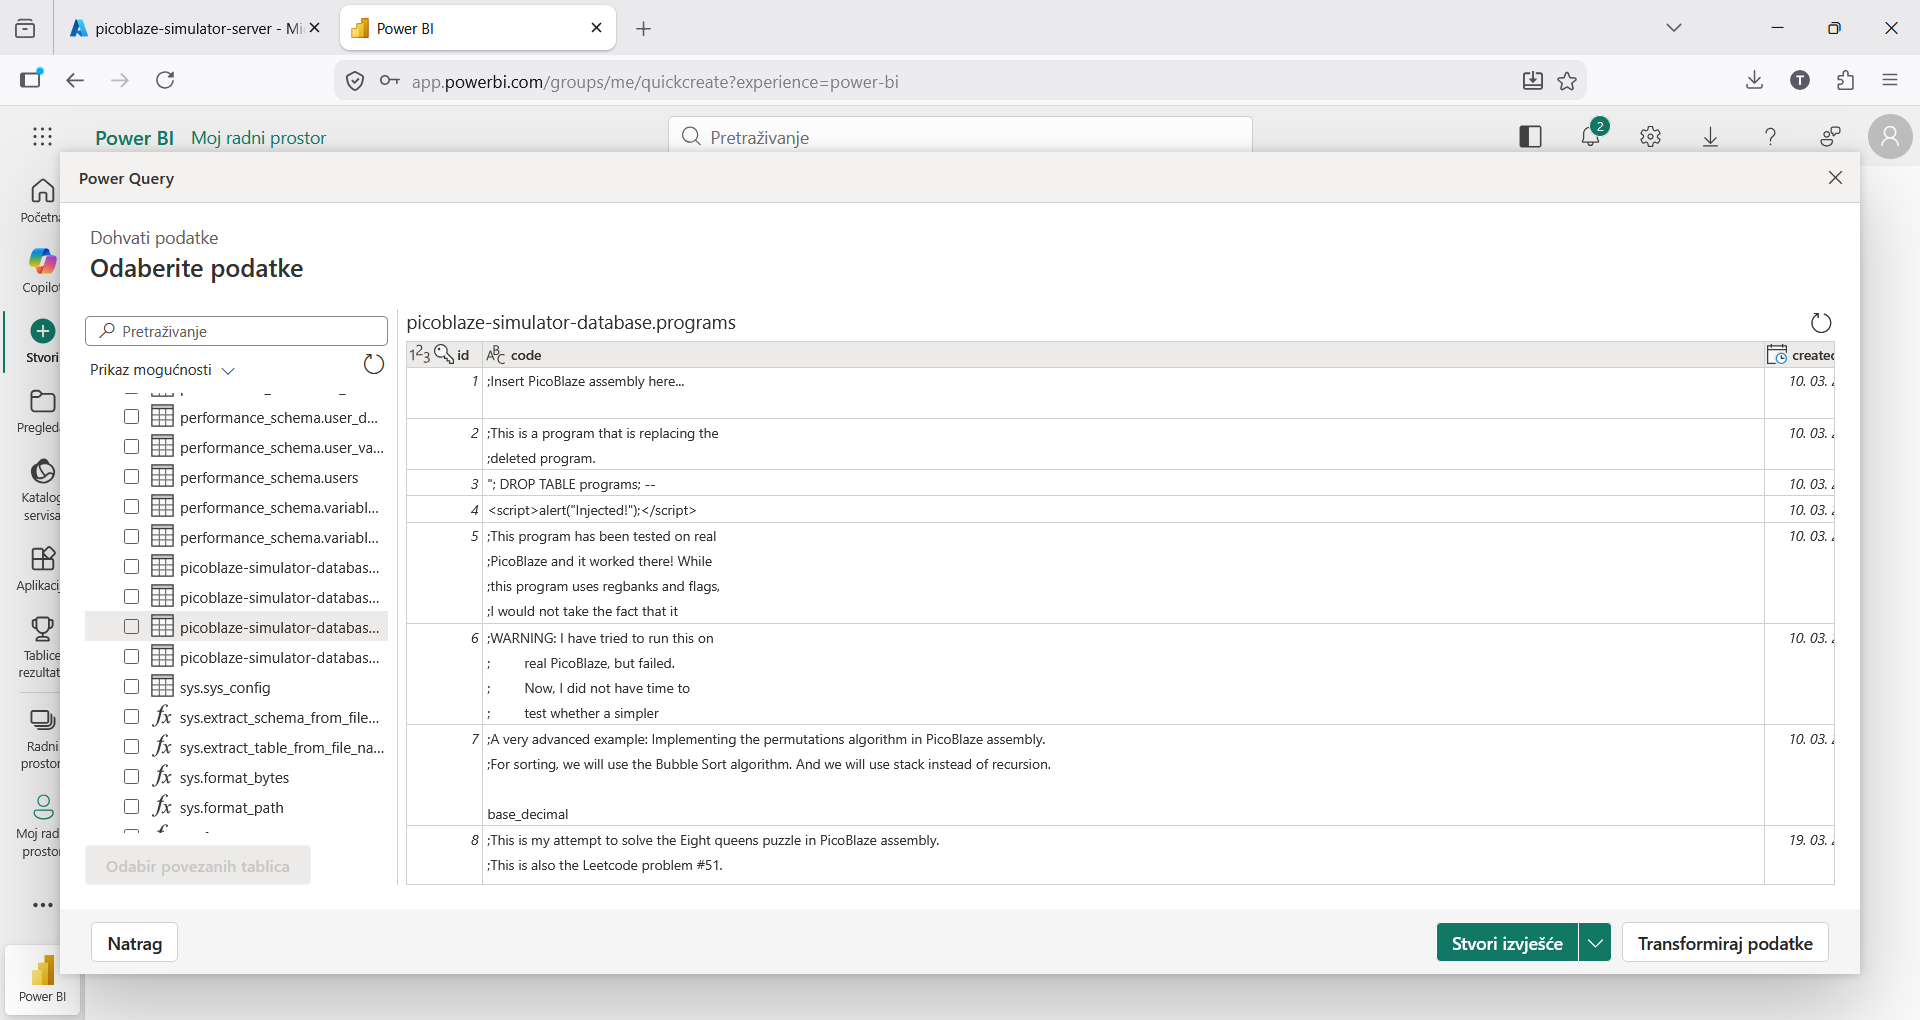
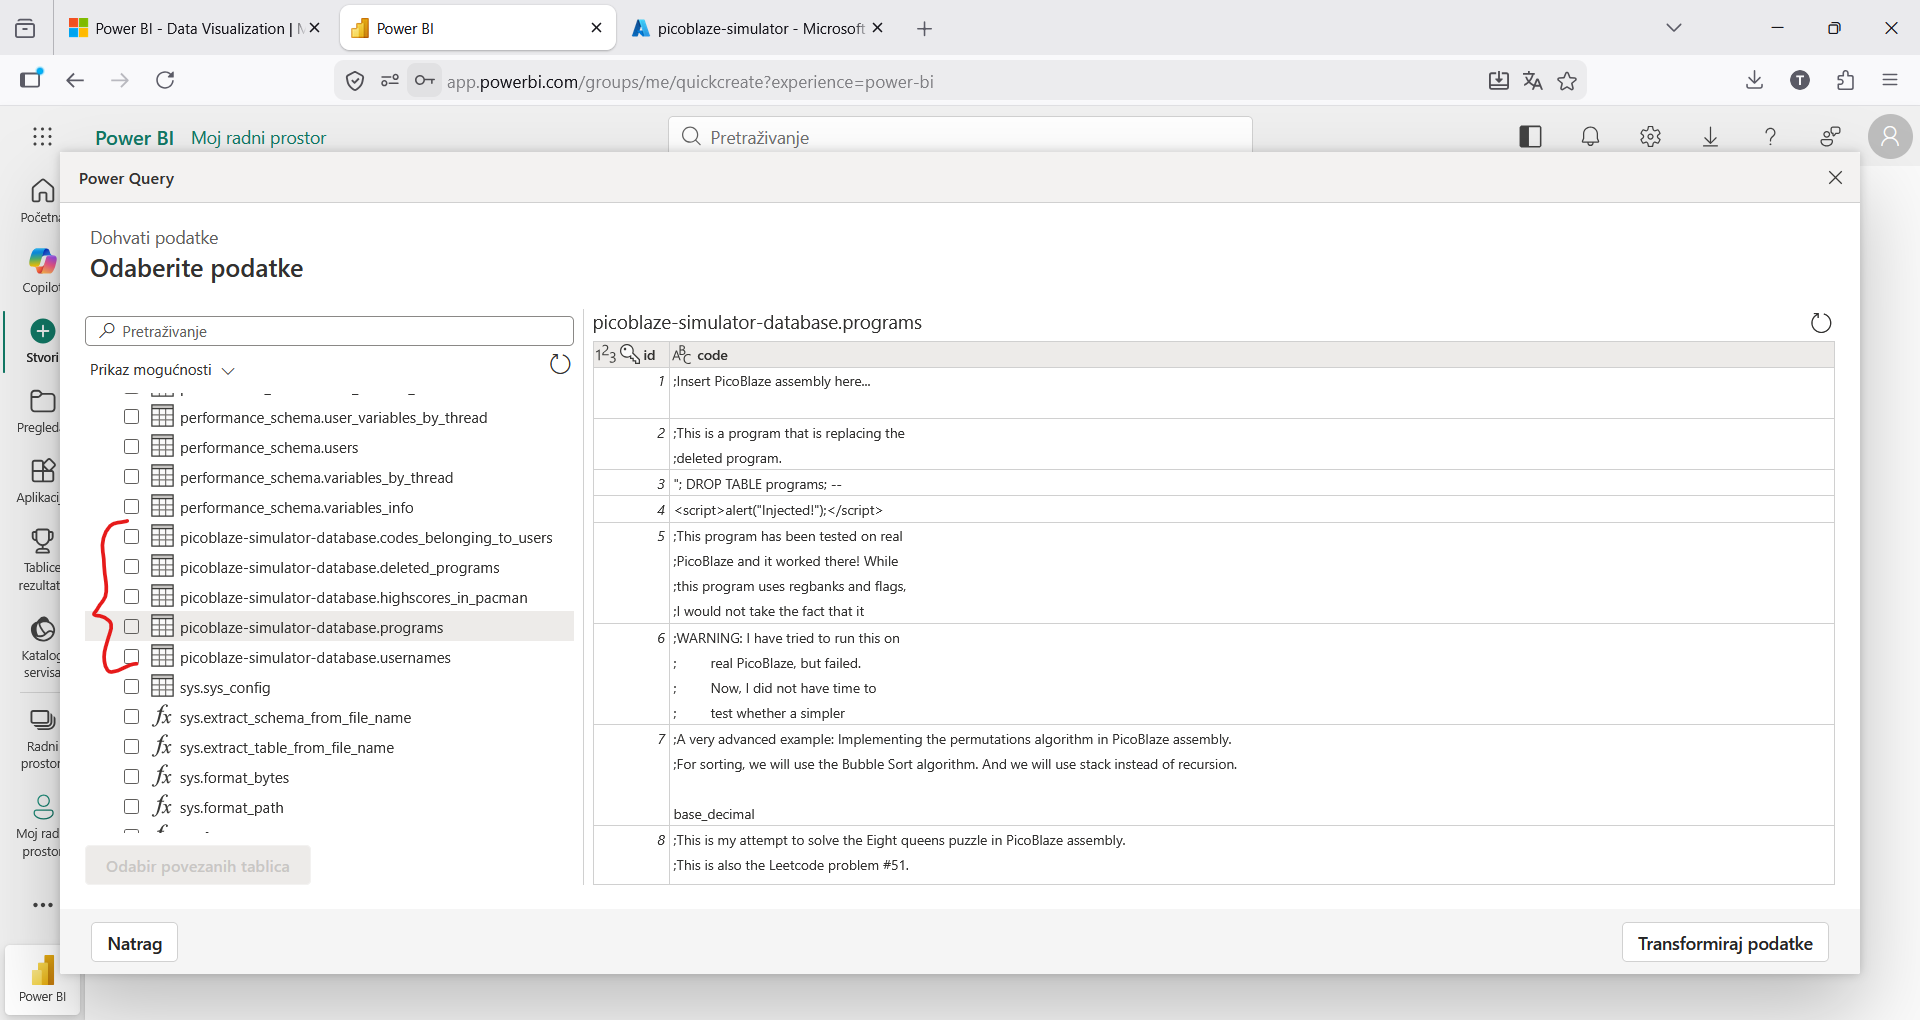
Uploaded the new screenshot of the database

diff --git a/PicoBlaze.html b/PicoBlaze.html
@@ -417,7 +417,8 @@
           "
           src="powerbi-screenshot.png"
         />
-        Here you can see that there are 4 tables in the database.</span
+        Here you can see that there are five tables in the database (four related to PicoBlaze
+	assembly programs, and one related to PacMan highscores).</span
       ><br /><br />
       UPDATE on 03/04/2026: I've finally tweaked
       <a

diff --git a/index.php b/index.php
@@ -478,7 +478,7 @@ if (!$is_already_printed) {
 style="display: block; width: 100%; margin-top: 5px; margin-bottom: 5px"
 src="powerbi-screenshot.png" 
 />
-Here you can see that there are 4 tables in the database.</span><br/><br/>
+Here you can see that there are five tables in the database (four related to PicoBlaze assembly programs, and one related to PacMan highscores).</span><br/><br/>
       UPDATE on 03/04/2026: I've finally tweaked
       <a
         href="https://sourceforge.net/projects/picoblaze-android/files/latest/download"